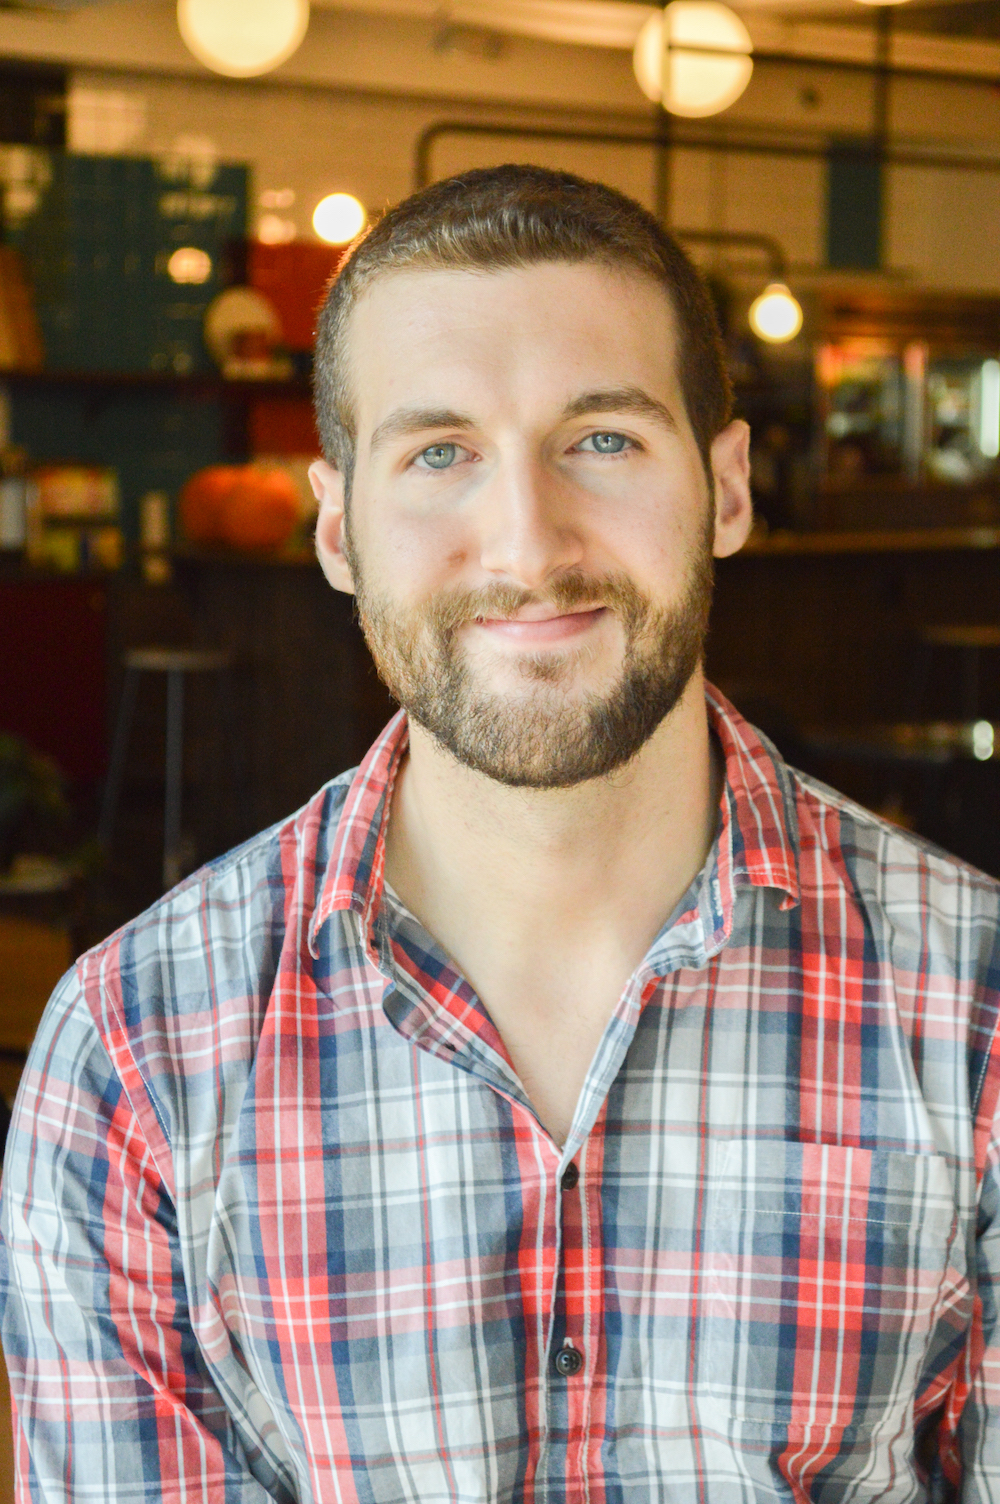
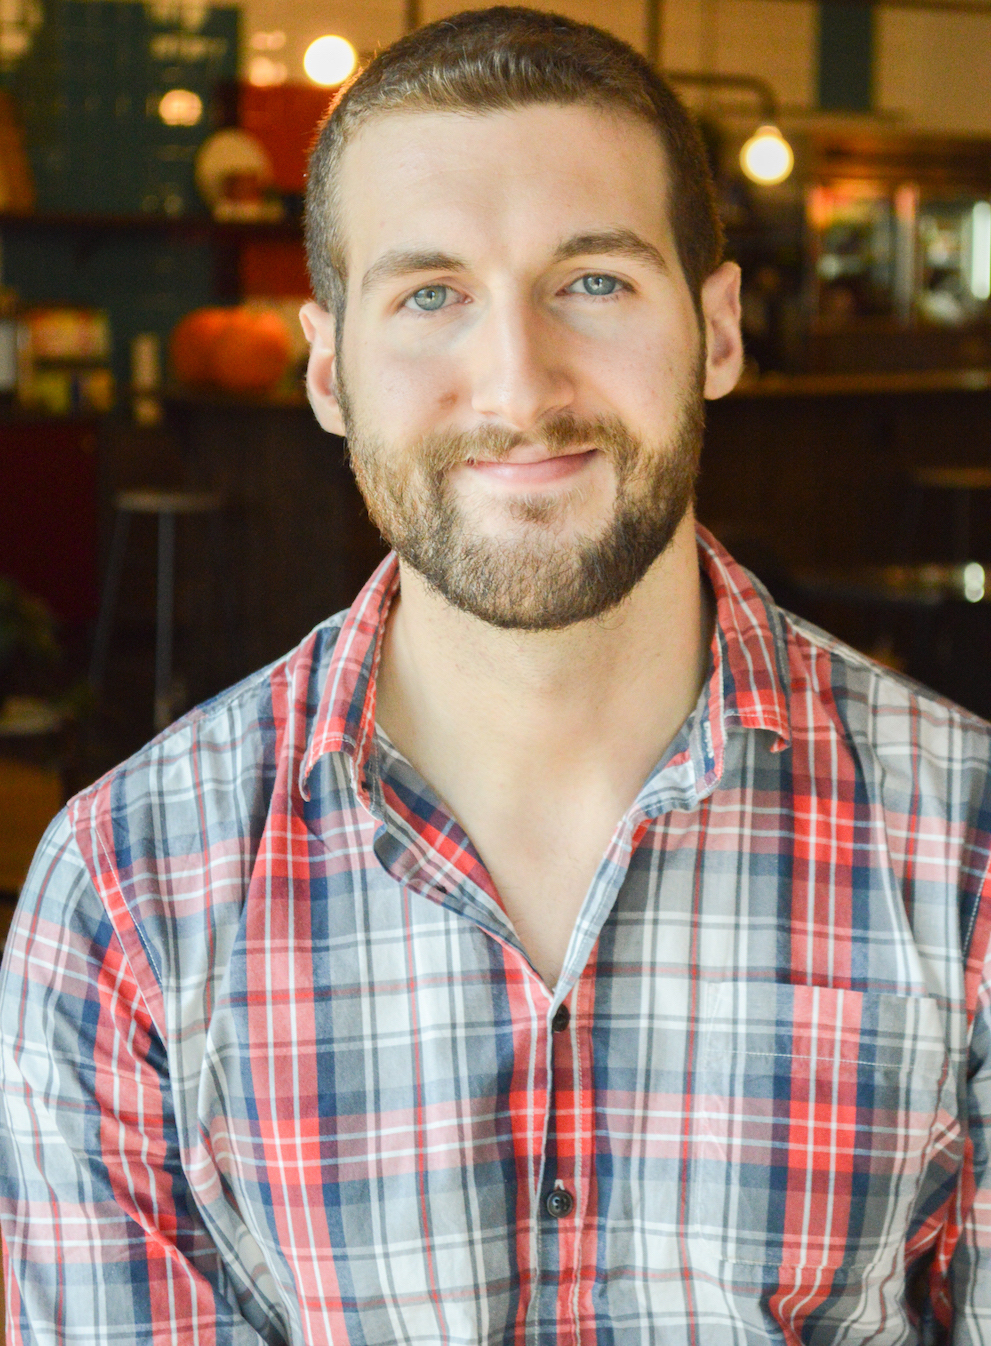
Making some progress

diff --git a/creative.html b/creative.html
@@ -10,6 +10,8 @@
 
     <title>MikeTheoCodes.com</title>
 
+    <link rel="shortcut icon" type="image/x-icon" href="favicon.ico" />
+
     <!-- Bootstrap core CSS -->
     <link href="vendor/bootstrap/css/bootstrap.min.css" rel="stylesheet" type="text/css">
 
@@ -26,18 +28,27 @@
     <link href="vendor/animate.css/animate.min.css" rel="stylesheet" type="text/css">
     <link href="device-mockups/device-mockups.min.css" rel="stylesheet" type="text/css">
 
-    <!-- Custom styles for this theme -->
-    <!-- Uncomment the color scheme you want to use! Red is chosen by default! -->
-    <!-- <link href="css/vitality-red.css" rel="stylesheet" type="text/css"> -->
-    <!-- <link href="css/vitality-aqua.css" rel="stylesheet" type="text/css"> -->
-    <!-- <link href="css/vitality-blue.css" rel="stylesheet" type="text/css"> -->
-    <!-- <link href="css/vitality-green.css" rel="stylesheet" type="text/css"> -->
-    <!-- <link href="css/vitality-orange.css" rel="stylesheet" type="text/css"> -->
-    <!-- <link href="css/vitality-pink.css" rel="stylesheet" type="text/css"> -->
-    <!-- <link href="css/vitality-purple.css" rel="stylesheet" type="text/css"> -->
-    <!-- <link href="css/vitality-tan.css" rel="stylesheet" type="text/css"> -->
+    <!-- Custom styles for this theme -->    
     <link href="css/vitality-turquoise.css" rel="stylesheet" type="text/css">
-    <!-- <link href="css/vitality-yellow.css" rel="stylesheet" type="text/css"> -->
+
+
+    <!-- Icons for What I Know Section -->
+    <link rel="stylesheet" href="https://cdn.rawgit.com/konpa/devicon/df6431e323547add1b4cf45992913f15286456d3/devicon.min.css">
+    <link rel="stylesheet" href="https://cdn.rawgit.com/konpa/devicon/df6431e323547add1b4cf45992913f15286456d3/devicon.min.css">
+    <link rel="stylesheet" href="https://cdn.rawgit.com/konpa/devicon/df6431e323547add1b4cf45992913f15286456d3/devicon.min.css">
+    <link rel="stylesheet" href="https://cdn.rawgit.com/konpa/devicon/df6431e323547add1b4cf45992913f15286456d3/devicon.min.css">
+    <link rel="stylesheet" href="https://cdn.rawgit.com/konpa/devicon/df6431e323547add1b4cf45992913f15286456d3/devicon.min.css">
+    <link rel="stylesheet" href="https://cdn.rawgit.com/konpa/devicon/df6431e323547add1b4cf45992913f15286456d3/devicon.min.css">
+    <link rel="stylesheet" href="https://cdn.rawgit.com/konpa/devicon/df6431e323547add1b4cf45992913f15286456d3/devicon.min.css">
+    <link rel="stylesheet" href="https://cdn.rawgit.com/konpa/devicon/df6431e323547add1b4cf45992913f15286456d3/devicon.min.css">
+    <link rel="stylesheet" href="https://cdn.rawgit.com/konpa/devicon/df6431e323547add1b4cf45992913f15286456d3/devicon.min.css">
+    <link rel="stylesheet" href="https://cdn.rawgit.com/konpa/devicon/df6431e323547add1b4cf45992913f15286456d3/devicon.min.css">
+    <link rel="stylesheet" href="https://cdn.rawgit.com/konpa/devicon/df6431e323547add1b4cf45992913f15286456d3/devicon.min.css">
+    <link rel="stylesheet" href="https://cdn.rawgit.com/konpa/devicon/df6431e323547add1b4cf45992913f15286456d3/devicon.min.css">
+    <link rel="stylesheet" href="https://cdn.rawgit.com/konpa/devicon/df6431e323547add1b4cf45992913f15286456d3/devicon.min.css">
+    <link rel="stylesheet" href="https://cdn.rawgit.com/konpa/devicon/df6431e323547add1b4cf45992913f15286456d3/devicon.min.css">
+    <link rel="stylesheet" href="https://cdn.rawgit.com/konpa/devicon/df6431e323547add1b4cf45992913f15286456d3/devicon.min.css">
+
 
   </head>
 
@@ -70,6 +81,16 @@
             <li class="nav-item">
               <a class="nav-link js-scroll-trigger" href="#contact">Contact</a>
             </li>
+            <li class="nav-link">
+              <a href="#">
+                <i class="nave-item fa fa-github fa-fw fa-2x media-links"></i>
+              </a>
+            </li>
+            <li class="nav-link">
+              <a href="#">
+                <i class="nave-item fa fa-linkedin fa-fw fa-2x media-links"></i>
+              </a>
+            </li>
           </ul>
         </div>
       </div>
@@ -95,7 +116,7 @@
     </header>
 
     <!-- About Section -->
-    <section class="page-section" id="about">
+    <section class="page-section text-center" id="about">
       <div class="container wow fadeIn">
         <div class="row">
           <div class="col-lg-6">
@@ -215,7 +236,7 @@
     <section class="page-section bg-light" id="services">
       <div class="container-fluid">
         <div class="wow fadeIn text-center">
-          <h1>This is what I do</h1>
+          <h1>What I do</h1>
    <!--        <p class="mb-0">Vitality is the perfect theme for a freelance professional or an agency.</p> -->
         </div>
         <hr class="colored">
@@ -274,63 +295,83 @@
     <section class="page-section services" id="process">
       <div class="container">
         <div class="text-center wow fadeIn">
-          <h2>This is What I Know</h2>
+          <h2>What I Know</h2>
           <hr class="colored">
           <!-- <p class="mb-0">Here is an overview of how I approach each new project.</p> -->
         </div>
-        <div class="row mt-4">
-          <!-- Service Item 1 -->
-          <div class="col-lg-4 wow fadeIn" data-wow-delay=".2s">
-            <div class="media">
-              <div class="pull-left">
-                <i class="fa fa-clipboard rounded-circle"></i>
+          <div id="what-i-know-container">
+            <!-- Row 1 -->
+            <div class="row mt-4">
+              <!-- Service Item 1 -->
+              <div class="col-lg-3 text-center wow fadeIn" data-wow-delay=".1s">
+                <i class="devicon-bootstrap-plain what-i-know"></i>
+                <h6 class="what-i-know-text">Bootstrap</h6>
               </div>
-              <div class="media-body">
-                <h3 class="media-heading">Plan</h3>
-                <ul>
-                  <li>Client interview</li>
-                  <li>Gather consumer data</li>
-                  <li>Create content strategy</li>
-                  <li>Analyze research</li>
-                </ul>
+              <!-- Service Item 2 -->
+              <div class="col-lg-3 text-center wow fadeIn" data-wow-delay=".2s">
+                <i class="devicon-html5-plain what-i-know"></i>
+                <h6 class="what-i-know-text">HTML5</h6>
+              </div>
+              <!-- Service Item 3 -->
+              <div class="col-lg-3 text-center wow fadeIn" data-wow-delay=".3s">
+                <i class="devicon-css3-plain what-i-know"></i>
+                <h6 class="what-i-know-text">CSS3</h6>
+              </div>
+              <!-- Service Item 4 -->
+              <div class="col-lg-3 text-center wow fadeIn" data-wow-delay=".4s">
+                <i class="devicon-javascript-plain what-i-know"></i>
+                <h6 class="what-i-know-text">Javascript</h6>
+              </div>
+            </div>
+
+            <!-- Row 2 -->
+            <div class="row mt-4">
+              <!-- Service Item 1 -->
+              <div class="col-lg-3 text-center wow fadeIn" data-wow-delay=".5s">
+                <i class="devicon-nodejs-plain-wordmark what-i-know"></i>
+                <h6 class="what-i-know-text">Node.js</h6>
+              </div>
+              <!-- Service Item 2 -->
+              <div class="col-lg-3 text-center wow fadeIn" data-wow-delay=".6s">
+                <i class="devicon-git-plain what-i-know"></i>
+                <h6 class="what-i-know-text">Git/Github</h6>
+              </div>
+              <!-- Service Item 3 -->
+              <div class="col-lg-3 text-center wow fadeIn" data-wow-delay=".7s">
+                <i class="devicon-jquery-plain what-i-know"></i>
+                <h6 class="what-i-know-text">jQuery</h6>
+              </div>
+              <!-- Service Item 3 -->
+              <div class="col-lg-3 text-center wow fadeIn" data-wow-delay=".8s">
+                <i class="devicon-postgresql-plain what-i-know"></i>
+                <h6 class="what-i-know-text">PostgreSQL</h6>
+              </div>
+            </div>
+
+            <!-- Row 4 -->
+            <div class="row mt-4">
+              <!-- Service Item 1 -->
+              <div class="col-lg-3 text-center wow fadeIn" data-wow-delay=".9s">
+                <i class="devicon-angularjs-plain what-i-know"></i>
+                <h6 class="what-i-know-text">Angular 4</h6>
+              </div>
+              <!-- Service Item 2 -->
+              <div class="col-lg-3 text-center wow fadeIn" data-wow-delay="1s">
+                <i class="devicon-react-plain what-i-know"></i>
+                <h6 class="what-i-know-text">React</h6>
+              </div>
+              <!-- Service Item 3 -->
+              <div class="col-lg-3 text-center wow fadeIn" data-wow-delay="1.1s">
+                <i class="devicon-typescript-plain what-i-know"></i>
+                <h6 class="what-i-know-text">Typescript</h6>
+              </div>
+              <!-- Service Item 3 -->
+              <div class="col-lg-3 text-center wow fadeIn" data-wow-delay="1.2s">
+                <i class="devicon-sass-plain what-i-know"></i>
+                <h6 class="what-i-know-text">SASS</h6>
               </div>
             </div>
           </div>
-          <!-- Service Item 2 -->
-          <div class="col-lg-4 wow fadeIn" data-wow-delay=".4s">
-            <div class="media">
-              <div class="pull-left">
-                <i class="fa fa-pencil rounded-circle"></i>
-              </div>
-              <div class="media-body">
-                <h3 class="media-heading">Create</h3>
-                <ul>
-                  <li>Build wireframe</li>
-                  <li>Gather client feedback</li>
-                  <li>Code development</li>
-                  <li>Marketing review</li>
-                </ul>
-              </div>
-            </div>
-          </div>
-          <!-- Service Item 3 -->
-          <div class="col-lg-4 wow fadeIn" data-wow-delay=".6s">
-            <div class="media">
-              <div class="pull-left">
-                <i class="fa fa-rocket rounded-circle"></i>
-              </div>
-              <div class="media-body">
-                <h3 class="media-heading">Launch</h3>
-                <ul>
-                  <li>Deploy website</li>
-                  <li>Market product launch</li>
-                  <li>Collect UX data</li>
-                  <li>Quarterly maintenence</li>
-                </ul>
-              </div>
-            </div>
-          </div>
-        </div>
       </div>
     </section>
 
@@ -414,10 +455,6 @@
         </div>
       </div>
     </section> -->
-
-
-
-
    
 
     <!-- Contact Section -->
@@ -508,28 +545,11 @@
     <!-- Footer -->
     <footer class="footer" style="background-image: url('img/agency/backgrounds/bg-footer.jpg')">
      
-        <div class="row footer-social">
+        <div class="row footer text-center">
           <div class="col-lg-12">
-            <ul class="list-inline">
-              <li class="list-inline-item">
-                <a href="#">
-                  <i class="fa fa-facebook fa-fw fa-2x"></i>
-                </a>
-              </li>
-              <li class="list-inline-item">
-                <a href="#">
-                  <i class="fa fa-twitter fa-fw fa-2x"></i>
-                </a>
-              </li>
-              <li class="list-inline-item">
-                <a href="#">
-                  <i class="fa fa-linkedin fa-fw fa-2x"></i>
-                </a>
-              </li>
-            </ul>
+            <p class="copyright">&copy; 2017 MikeTheoCodes </p>
           </div>
         </div>
-        <p class="copyright">&copy; 2017 MikeTheoCodes </p>
       </div>
     </footer>
 
@@ -762,13 +782,6 @@
     <!-- Custom scripts for this theme -->
     <script src="js/vitality.js"></script>
     <script src="js/mixitup-config.js"></script>
-
-    <script type="text/javascript">
-      function changeText() {
-        var button = document.getElementById('form-btn');
-
-      }
-    </script>
 
   </body>
 

diff --git a/css/vitality-turquoise.css b/css/vitality-turquoise.css
@@ -41,6 +41,7 @@
 
 #aboutme-pic {
   max-height: 34em;
+  box-shadow: 10px 10px 15px #888888;
 }
 
 #about {
@@ -82,6 +83,27 @@
 .contact-imgs {
   margin: 3em 0 2em 0;
 }
+
+.what-i-know {
+  font-size: 6em;
+  color: #41C4AB;
+}
+
+.what-i-know-text {
+  margin-top: .7em;
+}
+
+#what-i-know-container {
+  margin-top: 4em;
+}
+
+/*.media-links {
+  color: white;
+}
+
+.media-links:hover {
+  color: rgba(65, 196, 171, 0.5);
+}*/
 
 
 /*!
@@ -226,8 +248,8 @@ h6 {
           padding: 15px; }
           #mainNav .navbar-collapse .navbar-nav > .nav-item > .nav-link.active, #mainNav .navbar-collapse .navbar-nav > .nav-item > .nav-link.active:focus, #mainNav .navbar-collapse .navbar-nav > .nav-item > .nav-link.active:hover {
             color: #41C4AB;
-            border-radius: 0;
-            border-radius: 5px;
+            border-top: 1px solid #41C4AB;
+            border-bottom: 1px solid #41C4AB;
              } }
 
 header.masthead {
@@ -399,7 +421,7 @@ header.video {
     border: 3px solid #222; }
   .services .media .media-body {
     min-width: none;
-    padding-left: 15px; }
+    padding-left: 30px; }
     .services .media .media-body h3 {
       margin-bottom: 15px; }
     .services .media .media-body ul {
@@ -699,6 +721,7 @@ header.video {
     z-index: 0;
     position: relative;
     top: 2em;
+    color: #41C4AB;
     margin: 0;
     font-size: 0.85em;
     line-height: 1.764705882em;
